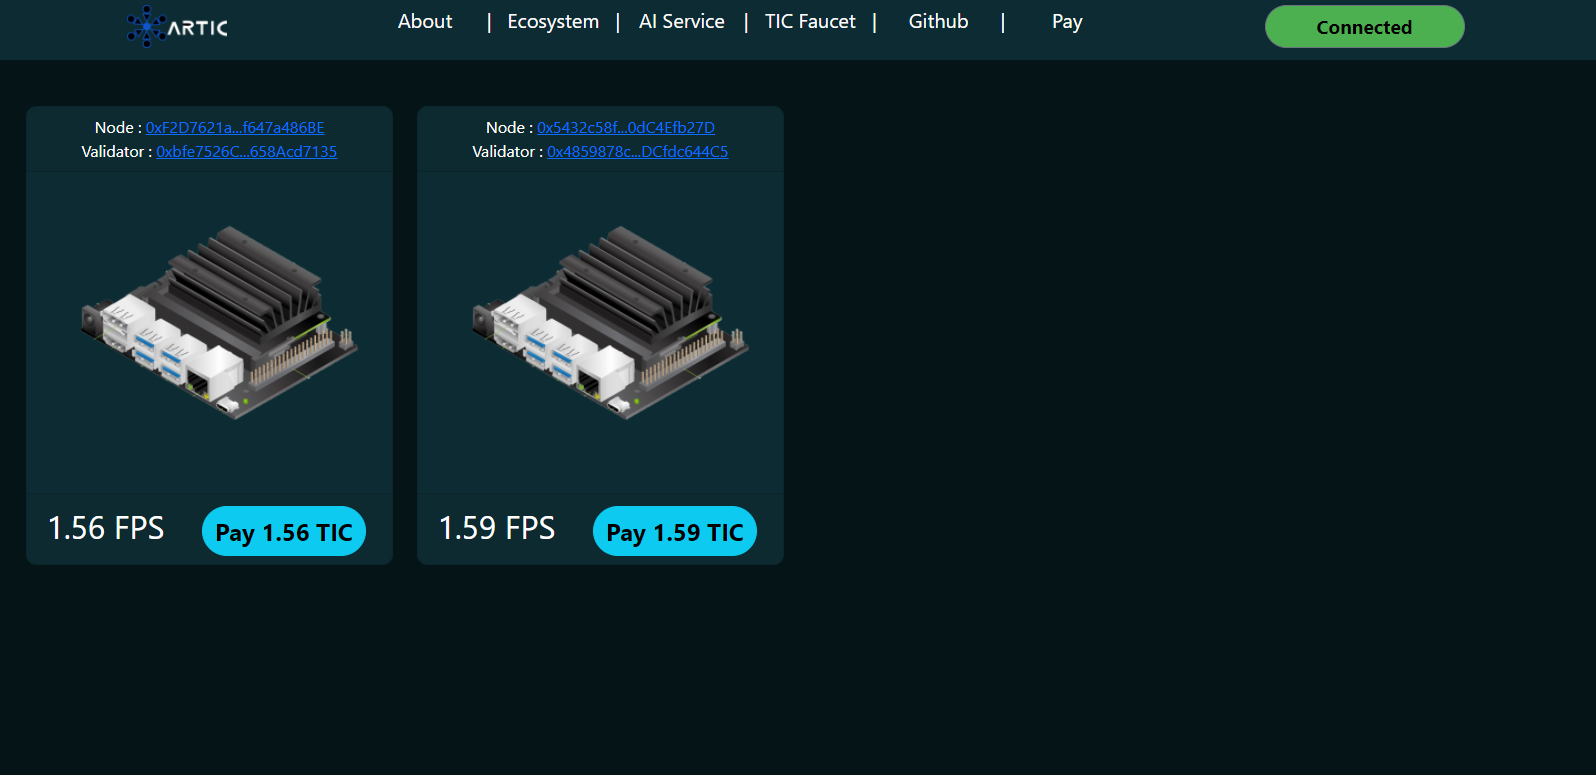
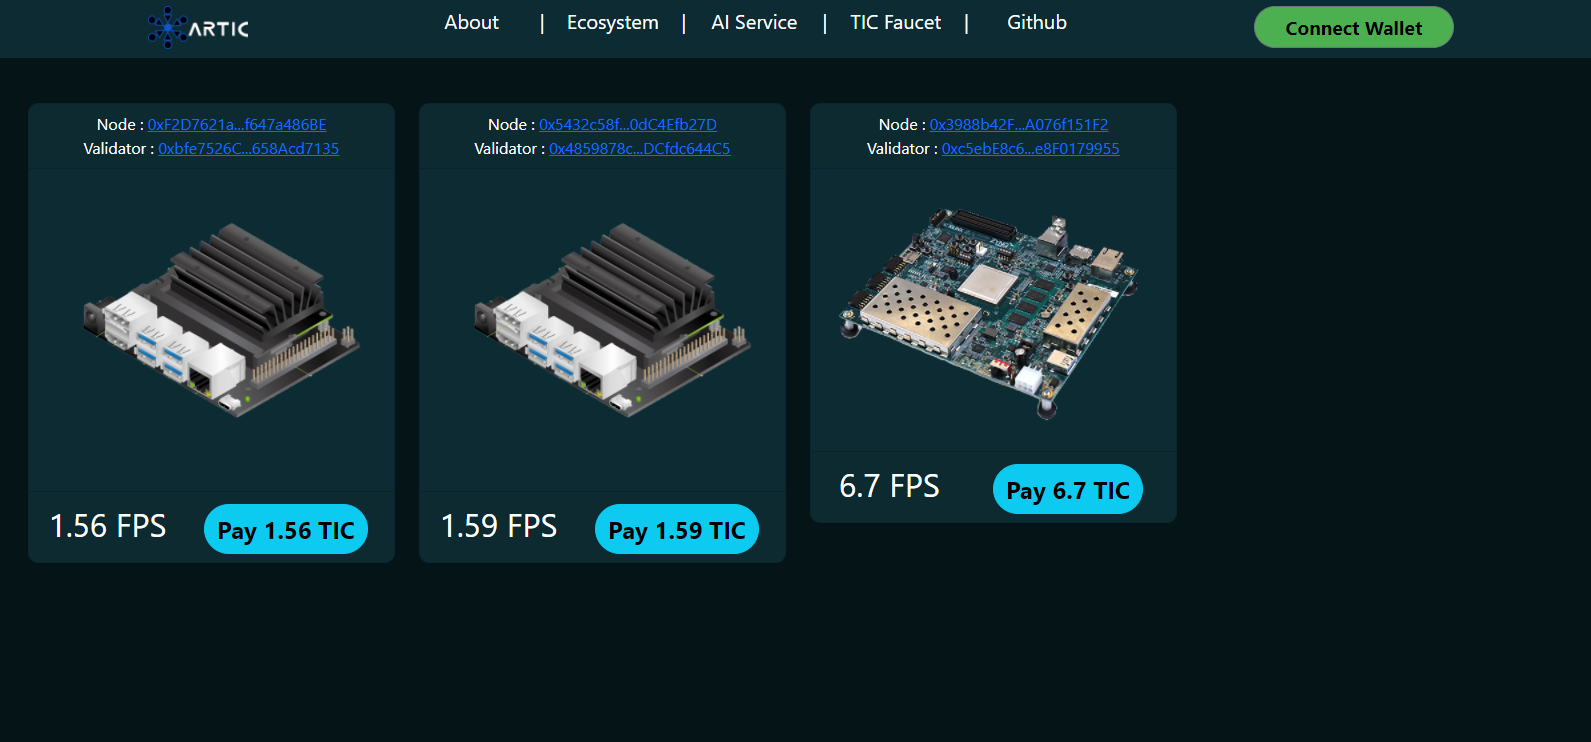
commit

diff --git a/README.md b/README.md
@@ -150,11 +150,21 @@ As part of the solution we have our home page, where we explain the project and 
 
 On our AI service page you can see one of our oracles feeding their contract in real time, you can check all of this directly in the Aurora Explorer.
 
+### Jetson Nano:
+
 <img src="./Images/ai.png">
 
-In this case this oracle obtains its data from the edge processing of images in a jetson nano through the YOLOv3 model, this is a practical example of how the oracle could be fed with an AI model.
+Jetson Nano oracle obtains its data from the edge processing of images in a jetson nano through the YOLOv3 model, this is a practical example of how the oracle could be fed with an AI model.
+
+### ZCU104:
+
+<img src="./Images/ai2.png">
+
+ZCU104 oracle obtains its data from the edge processing of images in a ZCU104 with DPU module through the YOLOv3 inference model, this is a practical example of how the oracle could be fed with an AI model.
 
 <img src="./Images/ui2.png">
+
+https://www.articprotocol.online/demo
 
 ## TIC Faucet:
 
